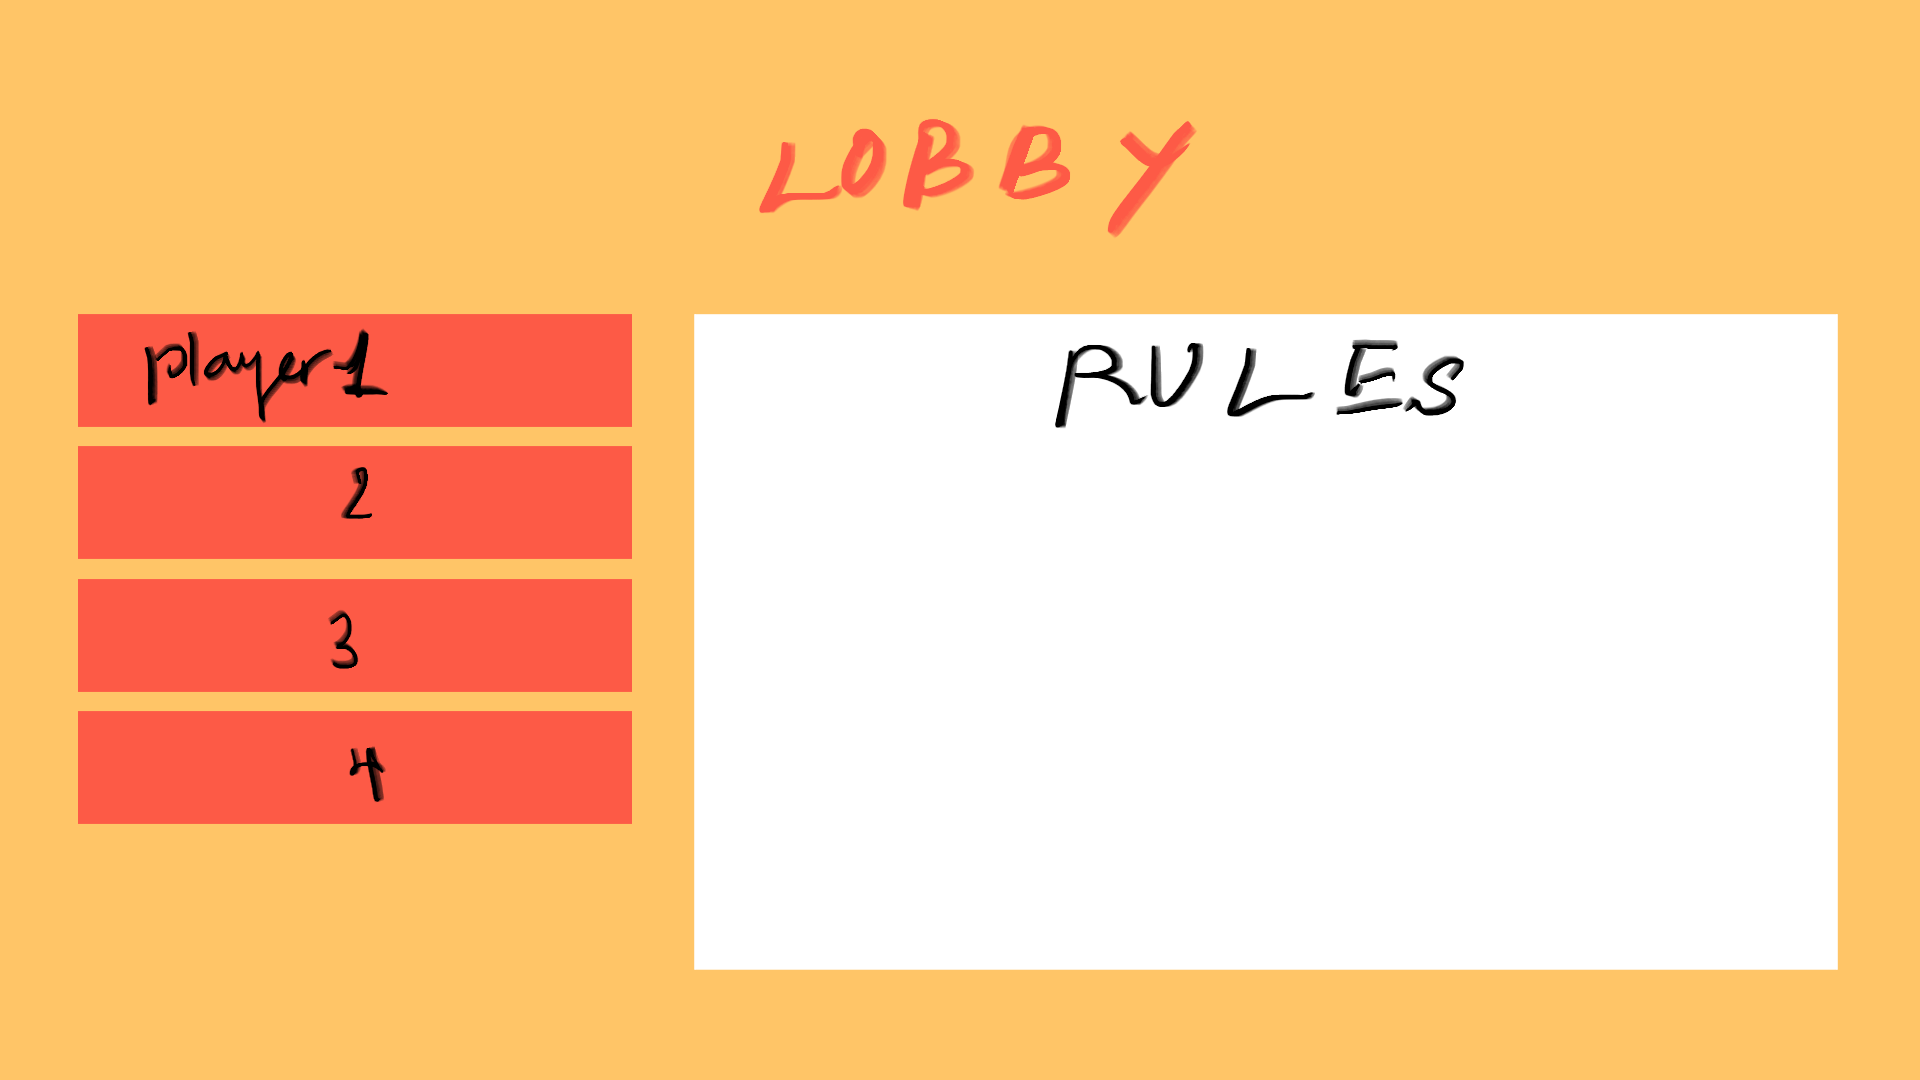
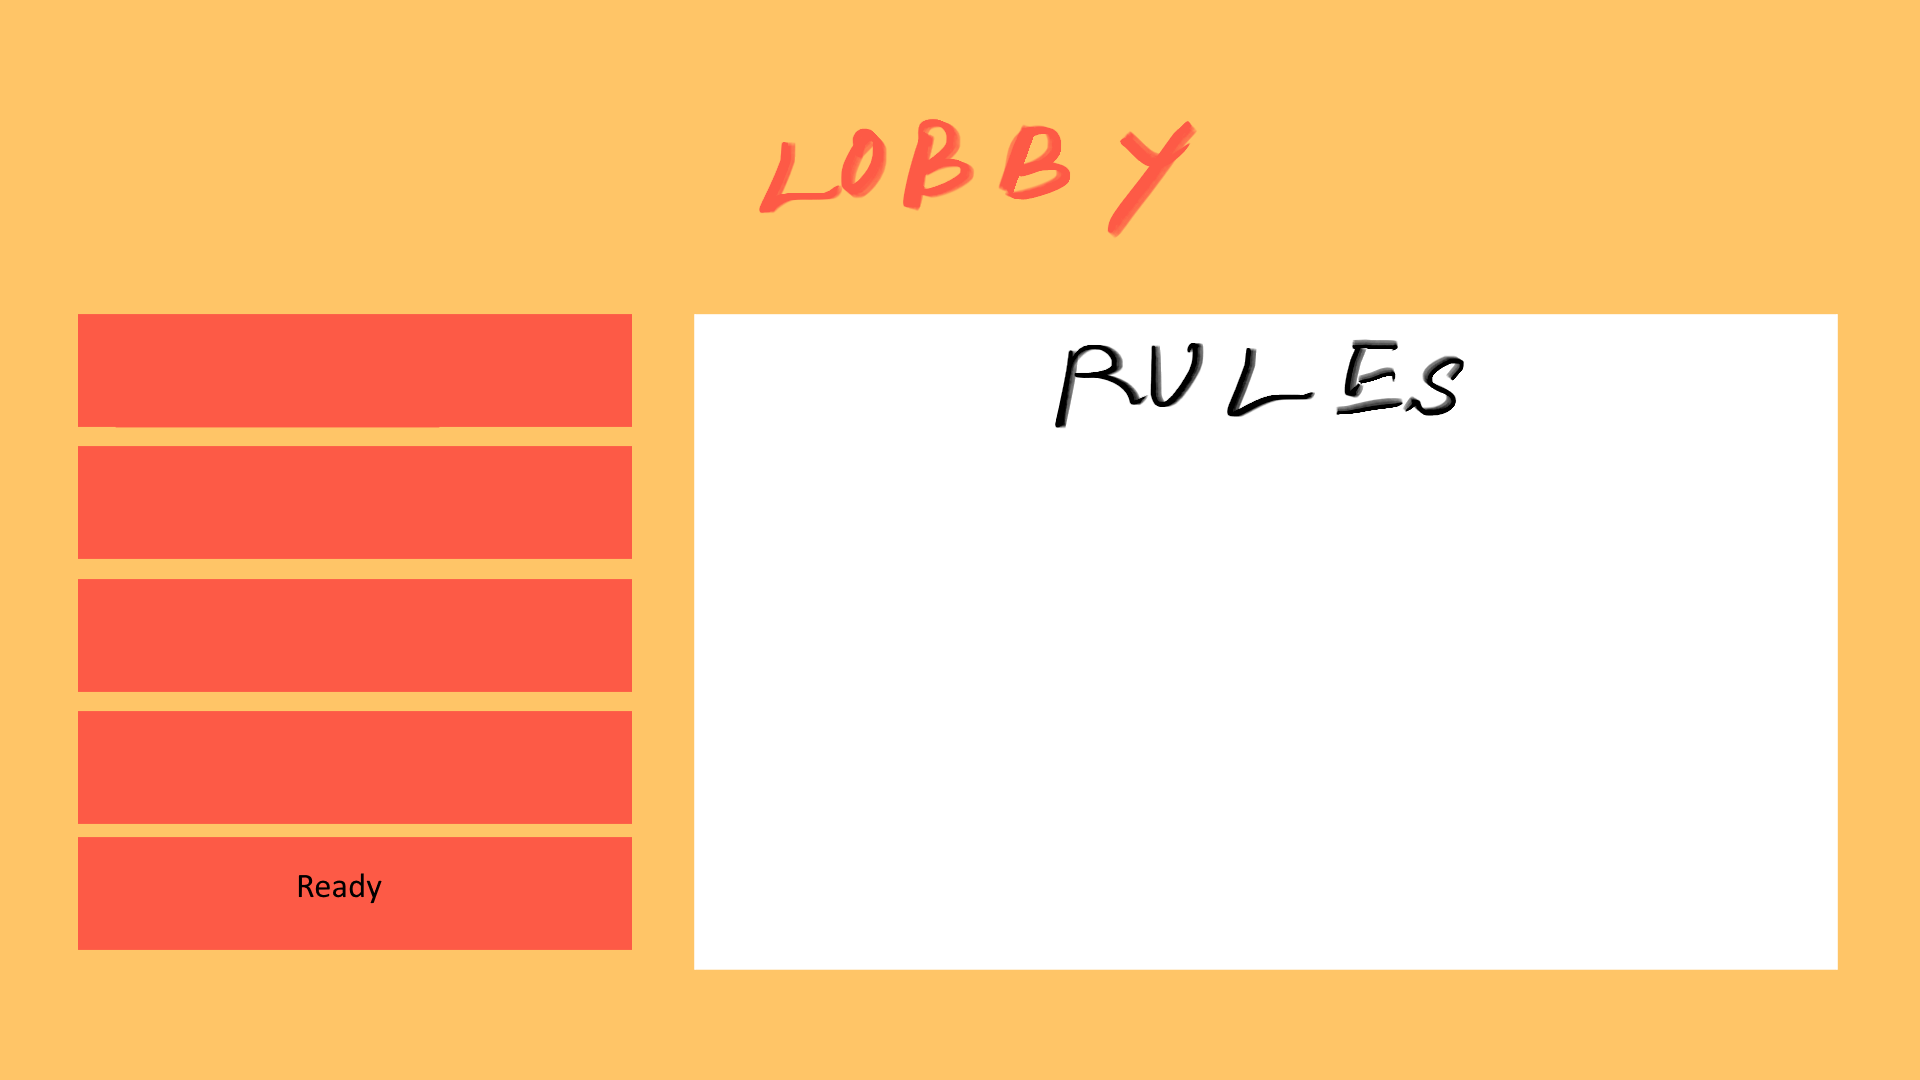
moare ui

diff --git a/frontend/index.html b/frontend/index.html
@@ -3,7 +3,9 @@
   <head>
     <link rel="stylesheet" href="style.css" />
     <link rel="stylesheet" href="title.css" />
+    <link rel="stylesheet" href="lobby.css" />
     <script src="index.js"></script>
+    <script src="chaospaint.js"></script>
   </head>
 
   <body onload="init();">
@@ -13,13 +15,29 @@
             <button type="button" id="create">  </button>
             <input type="text" id="nickname">  </input>
         </section>
-        <section id="painter" style="display:none;">
+        <section id="lobby">
+            <input type="text" id="player1" value="Player 1"></input>
+            <input type="text" id="player2" value="Player 2"></input>
+            <input type="text" id="player3" value="Player 3"></input>
+            <input type="text" id="player4" value="Player 4"></input>
+            <button type="button" id="ready">  </button>
+        </section>
+        <section id="painter">
             <h1 style="font-size: 100px; font-family: Comic Sans MS;">Hallo Canvas</h1>
             <div id="toolbox">
                 <button id="pencil">Pencil</button>
                 <button id="eraser">Eraser</button>
             </div>
             <canvas id="canvas" width="1385" height="737"></canvas>
+        </section>
+        <section id="troll">
+
+        </section>
+        <section id="voting">
+            
+        </section>
+        <section id="winner">
+            
         </section>
     </div>
   </body>

diff --git a/frontend/lobby.css b/frontend/lobby.css
@@ -1,0 +1,53 @@
+section#lobby {
+    background-image: url('mockup/lobby.png');
+}
+
+input#player1 {
+    position: absolute;
+    top: 314px;
+    left: 78px;
+    width: 553px;
+    height: 113px;
+
+    background-color: rgba(240,240,240,0)
+}
+
+input#player2 {
+    position: absolute;
+    top: 445px;
+    left: 78px;
+    width: 553px;
+    height: 113px;
+
+    background-color: rgba(240,240,240,0)
+}
+
+input#player3 {
+    position: absolute;
+    top: 576px;
+    left: 78px;
+    width: 553px;
+    height: 113px;
+
+    background-color: rgba(240,240,240,0)
+}
+
+input#player4 {
+    position: absolute;
+    top: 707px;
+    left: 78px;
+    width: 553px;
+    height: 113px;
+
+    background-color: rgba(240,240,240,0)
+}
+
+button#ready {
+    position: absolute;
+    top: 838px;
+    left: 78px;
+    width: 553px;
+    height: 113px;
+
+    background-color: rgba(240,240,240,0)
+}

diff --git a/frontend/chaospaint.js b/frontend/chaospaint.js
@@ -10,10 +10,6 @@ const palette = [
     "#000",
 ];
 
-function init() {
-    initPainter();
-}
-
 function initPainter() {
   canvas = document.getElementById("canvas");
   ctx = canvas.getContext("2d");

diff --git a/frontend/index.js b/frontend/index.js
@@ -1,0 +1,5 @@
+function init() {
+    initPainter();
+    document.getElementById("title").style.display = "flow";
+}
+

diff --git a/frontend/style.css b/frontend/style.css
@@ -14,6 +14,7 @@ div#wrapper {
 }
 
 section {
+    display: none;
     width: 100%;
     height: 100%;
 }
